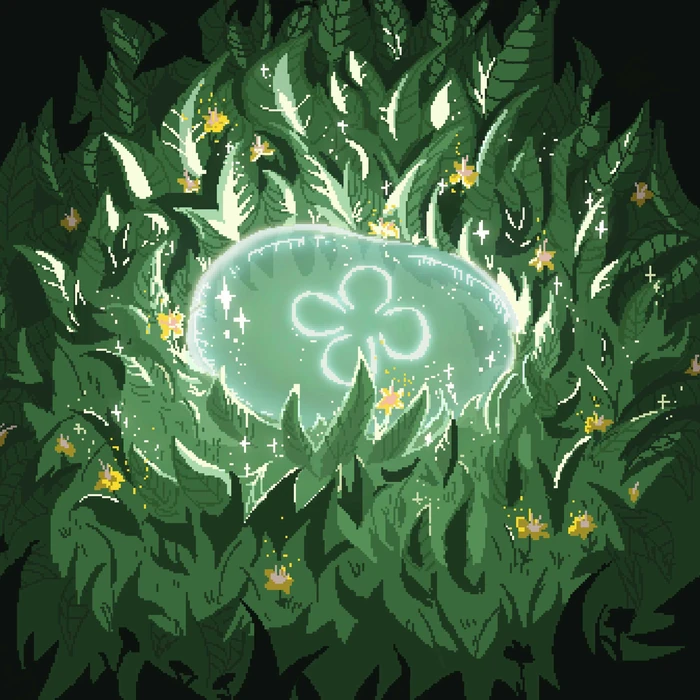
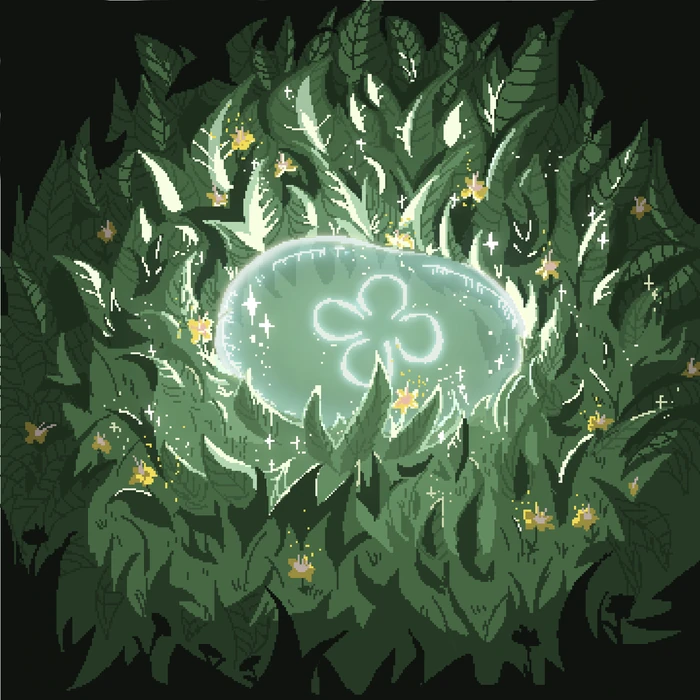
Fix gallery after artwork re-export to PNG
Three pieces were re-exported as 6000x6000 PNG, changing their file
extension. data/pixel-art.js still pointed at the old .jpg names, so the
lightbox 404'd on Under the Surface, Hidden in Green and Tidal Glow while
the cards showed stale thumbnails.

- Point the manifest at the .png files and rebuild thumbnails.
- Stop forcing nearest-neighbour on the lightbox image. It was applied
  unconditionally, which aliases a 6000px export being shrunk to fit the
  viewport. gallery.js now measures the lightbox image the same way it
  measures cards, via a MutationObserver (lightbox2 creates and reuses
  that element) plus a ResizeObserver, since the frame animates open.

Note: the PNGs are exact 2x nearest-neighbour upscales of 3000x3000 --
every 2x2 block is a single colour, so they carry no detail a 3000px
file would not. Kept at 6000 by choice; the display result is identical.

diff --git a/js/gallery.js b/js/gallery.js
@@ -48,6 +48,36 @@
     }
     if (img.complete) decide();
     img.addEventListener('load', decide);
+
+    // Re-measure whenever the element is resized — the lightbox animates its
+    // frame open, and the viewport can change under us.
+    if ('ResizeObserver' in window) {
+      new ResizeObserver(decide).observe(img);
+    }
+  }
+
+  // The lightbox <img> is created by lightbox2 and reused across openings, so
+  // watch for it instead of wiring it up at build time. Without this the
+  // full-size view would use nearest-neighbour even when shrinking a 6000px
+  // export down to fit the screen, which aliases the artwork badly.
+  function watchLightbox() {
+    if (!('MutationObserver' in window)) return;
+    new MutationObserver(function (mutations) {
+      mutations.forEach(function (m) {
+        for (var i = 0; i < m.addedNodes.length; i++) {
+          var n = m.addedNodes[i];
+          if (n.nodeType !== 1) continue;
+          var img = n.classList && n.classList.contains('lb-image')
+            ? n
+            : n.querySelector && n.querySelector('.lb-image');
+          if (img && !img.dataset.scaled) {
+            img.dataset.scaled = '1';
+            img.classList.add('pixel-img');
+            setScalingMode(img);
+          }
+        }
+      });
+    }).observe(document.body, { childList: true, subtree: true });
   }
 
   function emptyState(message) {
@@ -156,6 +186,8 @@
   }
 
   document.addEventListener('DOMContentLoaded', function () {
+    watchLightbox();
+
     var grid = document.querySelector('[data-gallery]');
     if (grid) {
       if (!items.length) {

diff --git a/data/pixel-art.js b/data/pixel-art.js
@@ -3,10 +3,10 @@
 
    HOW TO ADD A PIECE
    1. Name the image file after the artwork, using underscores for spaces:
-        Tidal_Glow.jpg   ->   shown on the site as "Tidal Glow"
+        Tidal_Glow.png   ->   shown on the site as "Tidal Glow"
    2. Put it in the  pixel/  folder.
    3. Add a line at the TOP of the list below (newest first):
-        { file: 'Tidal_Glow.jpg', featured: true },
+        { file: 'Tidal_Glow.png', featured: true },
    4. Run  python tools/make-thumbs.py
    5. Save. Refresh the site. Done.
 
@@ -23,14 +23,14 @@
                 The first featured piece is also the big home page image.
 
    A fuller entry, if you want one:
-     { file: 'Tidal_Glow.jpg', year: 2026, tags: ['scenes'], featured: true },
+     { file: 'Tidal_Glow.png', year: 2026, tags: ['scenes'], featured: true },
 
    Careful: keep the commas and quotes exactly as they are.
    =========================================================================== */
 
 window.PIXEL_ART = [
-  { file: 'Under_the_Surface.jpg', featured: true },
-  { file: 'Hidden_in_Green.jpg', featured: true },
-  { file: 'Tidal_Glow.jpg', featured: true },
+  { file: 'Under_the_Surface.png', featured: true },
+  { file: 'Hidden_in_Green.png', featured: true },
+  { file: 'Tidal_Glow.png', featured: true },
   { file: 'Manta_Ray_Dive.jpg', featured: true }
 ];

diff --git a/styles.css b/styles.css
@@ -162,15 +162,11 @@ a:focus-visible {
   color: var(--panel);
 }
 
-/* The full-size lightbox view is always an upscale, so it is always crisp. */
-.lb-image {
-  image-rendering: pixelated;
-  image-rendering: crisp-edges;
-}
-
-/* Cards and the hero get nearest-neighbour only when the image is being blown
-   UP (a small native sprite). gallery.js adds .is-upscaled after measuring —
-   see setScalingMode(). Shrinking a large export stays smooth. */
+/* Nearest-neighbour only when an image is being blown UP (a small native
+   sprite) — that is what makes pixel art crisp. Shrinking a large export
+   stays smooth, because dropping most of its pixels aliases the linework.
+   gallery.js measures each image and adds .is-upscaled; it does this for the
+   lightbox too, where a 6000px file is squeezed into the viewport. */
 .pixel-img.is-upscaled {
   image-rendering: pixelated;
   image-rendering: crisp-edges;
